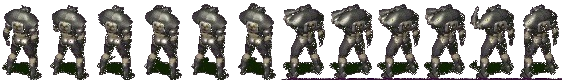
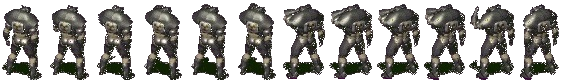
upd sprites v2

Changed region(s): [[0.484, 0.9512, 1.0, 0.9756]]

diff --git a/static/test.html b/static/test.html
@@ -30,16 +30,16 @@
         var stage = new createjs.Stage("demoCanvas");
         var data = new createjs.SpriteSheet({
             "images": [
-                "../media/equipment/enclave_power_armor/flamethrower/walk/right.png",
-                '../media/equipment/enclave_power_armor/flamethrower/walk/left.png',
-                '../media/equipment/enclave_power_armor/flamethrower/walk/bottom.png',
-                '../media/equipment/enclave_power_armor/flamethrower/walk/top.png',
+                "../media/equipment/enclave_power_armor/no_weapon/walk/right.png",
+                '../media/equipment/enclave_power_armor/no_weapon/walk/left.png',
+                '../media/equipment/enclave_power_armor/no_weapon/walk/bottom.png',
+                '../media/equipment/enclave_power_armor/no_weapon/walk/top.png',
             ],
             "frames": {
                 // 429 x 77
-                "height": 87,
+                "height": 77,
                 "count": 32,
-                "width": 61.75,
+                "width": 53.625,
             },
             "animations": {
                 "right": {
@@ -62,7 +62,7 @@
         });
         window.character = new createjs.Sprite(data);
         // character.direction = 90;
-        character.gotoAndPlay("left");
+        character.gotoAndPlay("bottom");
         stage.addChild(character);
         createjs.Ticker.useRAF = true;
         createjs.Ticker.timingMode = createjs.Ticker.RAF_SYNCHED;
